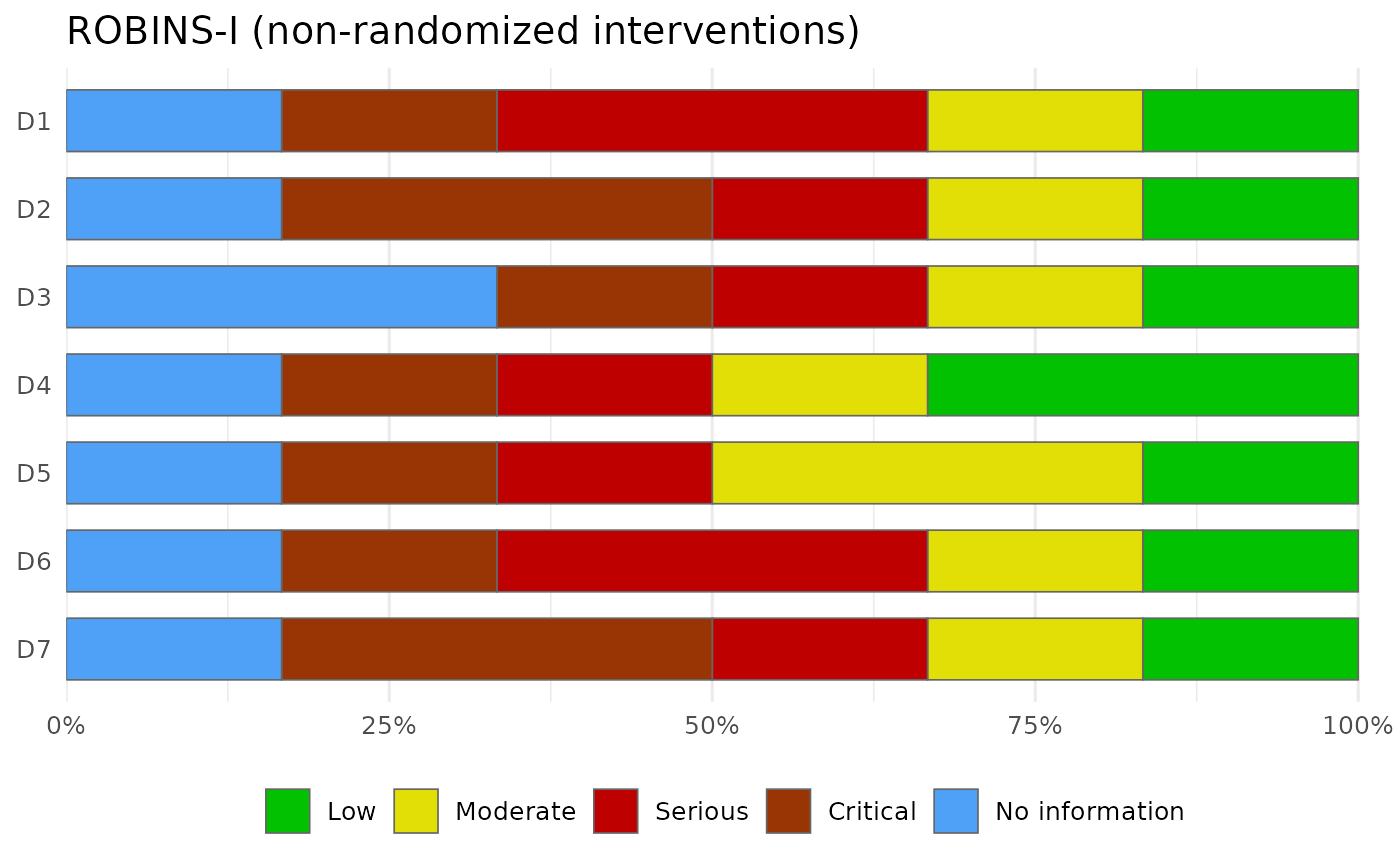
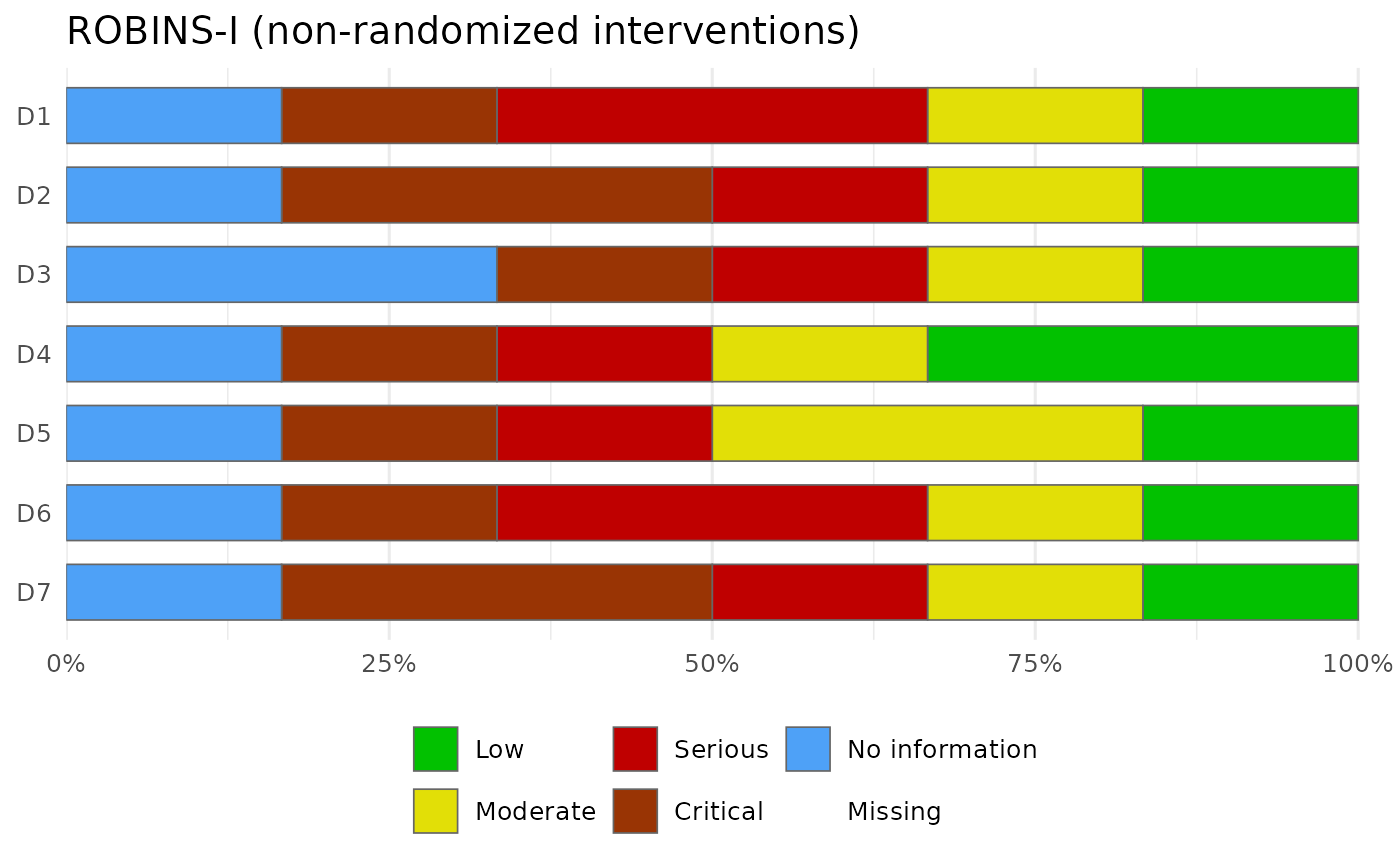
Deploy pkgdown site [skip ci]

diff --git a/reference/flowchart_consistency.html b/reference/flowchart_consistency.html
@@ -1,0 +1,99 @@
+<!DOCTYPE html>
+<!-- Generated by pkgdown: do not edit by hand --><html lang="en"><head><meta http-equiv="Content-Type" content="text/html; charset=UTF-8"><meta charset="utf-8"><meta http-equiv="X-UA-Compatible" content="IE=edge"><meta name="viewport" content="width=device-width, initial-scale=1, shrink-to-fit=no"><title>Check a flow diagram for count inconsistencies — flowchart_consistency • reportilo</title><!-- favicons --><link rel="icon" type="image/png" sizes="96x96" href="../favicon-96x96.png"><link rel="icon" type="”image/svg+xml”" href="../favicon.svg"><link rel="apple-touch-icon" sizes="180x180" href="../apple-touch-icon.png"><link rel="icon" sizes="any" href="../favicon.ico"><link rel="manifest" href="../site.webmanifest"><script src="../deps/jquery-3.6.0/jquery-3.6.0.min.js"></script><meta name="viewport" content="width=device-width, initial-scale=1, shrink-to-fit=no"><link href="../deps/bootstrap-5.3.8/bootstrap.min.css" rel="stylesheet"><script src="../deps/bootstrap-5.3.8/bootstrap.bundle.min.js"></script><link href="../deps/font-awesome-6.5.2/css/all.min.css" rel="stylesheet"><link href="../deps/font-awesome-6.5.2/css/v4-shims.min.css" rel="stylesheet"><script src="../deps/headroom-0.11.0/headroom.min.js"></script><script src="../deps/headroom-0.11.0/jQuery.headroom.min.js"></script><script src="../deps/bootstrap-toc-1.0.1/bootstrap-toc.min.js"></script><script src="../deps/clipboard.js-2.0.11/clipboard.min.js"></script><script src="../deps/search-1.0.0/autocomplete.jquery.min.js"></script><script src="../deps/search-1.0.0/fuse.min.js"></script><script src="../deps/search-1.0.0/mark.min.js"></script><!-- pkgdown --><script src="../pkgdown.js"></script><meta property="og:title" content="Check a flow diagram for count inconsistencies — flowchart_consistency"><meta name="description" content="Apply template-specific sanity rules (for example, screened cannot exceed
+identified, randomized cannot exceed assessed for eligibility). Reason
+fields are ignored."><meta property="og:description" content="Apply template-specific sanity rules (for example, screened cannot exceed
+identified, randomized cannot exceed assessed for eligibility). Reason
+fields are ignored."><meta property="og:image" content="https://choxos.github.io/reportilo/logo.png"></head><body>
+    <a href="#main" class="visually-hidden-focusable">Skip to contents</a>
+
+
+    <nav class="navbar navbar-expand-lg fixed-top bg-light" data-bs-theme="light" aria-label="Site navigation"><div class="container">
+
+    <a class="navbar-brand me-2" href="../index.html">reportilo</a>
+
+    <small class="nav-text text-muted me-auto" data-bs-toggle="tooltip" data-bs-placement="bottom" title="">0.1.0</small>
+
+
+    <button class="navbar-toggler" type="button" data-bs-toggle="collapse" data-bs-target="#navbar" aria-controls="navbar" aria-expanded="false" aria-label="Toggle navigation">
+      <span class="navbar-toggler-icon"></span>
+    </button>
+
+    <div id="navbar" class="collapse navbar-collapse ms-3">
+      <ul class="navbar-nav me-auto"><li class="nav-item"><a class="nav-link" href="../articles/reportilo.html">Get started</a></li>
+<li class="active nav-item"><a class="nav-link" href="../reference/index.html">Reference</a></li>
+<li class="nav-item dropdown">
+  <button class="nav-link dropdown-toggle" type="button" id="dropdown-articles" data-bs-toggle="dropdown" aria-expanded="false" aria-haspopup="true">Articles</button>
+  <ul class="dropdown-menu" aria-labelledby="dropdown-articles"><li><a class="dropdown-item" href="../articles/reportilo.html">Getting started</a></li>
+    <li><a class="dropdown-item" href="../articles/checklists.html">Filling in checklists</a></li>
+    <li><a class="dropdown-item" href="../articles/flowcharts.html">Building flow diagrams</a></li>
+    <li><a class="dropdown-item" href="../articles/export.html">Exporting to Word, Excel and images</a></li>
+  </ul></li>
+<li class="nav-item"><a class="nav-link" href="../news/index.html">Changelog</a></li>
+      </ul><ul class="navbar-nav"><li class="nav-item"><form class="form-inline" role="search">
+ <input class="form-control" type="search" name="search-input" id="search-input" autocomplete="off" aria-label="Search site" placeholder="Search for" data-search-index="../search.json"></form></li>
+<li class="nav-item"><a class="nav-link" href="https://choxos.github.io/reportilo/app/">Web app</a></li>
+<li class="nav-item"><a class="external-link nav-link" href="https://github.com/choxos/reportilo/" aria-label="GitHub"><span class="fa fab fa-github fa-lg"></span></a></li>
+      </ul></div>
+
+
+  </div>
+</nav><div class="container template-reference-topic">
+<div class="row">
+  <main id="main" class="col-md-9"><div class="page-header">
+      <img src="../logo.png" class="logo" alt=""><h1>Check a flow diagram for count inconsistencies</h1>
+      <small class="dont-index">Source: <a href="https://github.com/choxos/reportilo/blob/main/R/flowchart.R" class="external-link"><code>R/flowchart.R</code></a></small>
+      <div class="d-none name"><code>flowchart_consistency.Rd</code></div>
+    </div>
+
+    <div class="ref-description section level2">
+    <p>Apply template-specific sanity rules (for example, <em>screened</em> cannot exceed
+<em>identified</em>, <em>randomized</em> cannot exceed <em>assessed for eligibility</em>). Reason
+fields are ignored.</p>
+    </div>
+
+    <div class="section level2">
+    <h2 id="ref-usage">Usage<a class="anchor" aria-label="anchor" href="#ref-usage"></a></h2>
+    <div class="sourceCode"><pre class="sourceCode r"><code><span><span class="fu">flowchart_consistency</span><span class="op">(</span><span class="va">x</span><span class="op">)</span></span></code></pre></div>
+    </div>
+
+    <div class="section level2">
+    <h2 id="arguments">Arguments<a class="anchor" aria-label="anchor" href="#arguments"></a></h2>
+
+
+<dl><dt id="arg-x">x<a class="anchor" aria-label="anchor" href="#arg-x"></a></dt>
+<dd><p>A <code>reportilo_flowchart</code>.</p></dd>
+
+</dl></div>
+    <div class="section level2">
+    <h2 id="value">Value<a class="anchor" aria-label="anchor" href="#value"></a></h2>
+    <p>A character vector of issue messages (empty if the counts are
+consistent).</p>
+    </div>
+
+    <div class="section level2">
+    <h2 id="ref-examples">Examples<a class="anchor" aria-label="anchor" href="#ref-examples"></a></h2>
+    <div class="sourceCode"><pre class="sourceCode r"><code><span class="r-in"><span><span class="va">fc</span> <span class="op">&lt;-</span> <span class="fu"><a href="set_counts.html">set_counts</a></span><span class="op">(</span><span class="fu"><a href="new_flowchart.html">new_flowchart</a></span><span class="op">(</span><span class="st">"prisma_2020"</span><span class="op">)</span>, identified_db <span class="op">=</span> <span class="fl">100</span>, screened <span class="op">=</span> <span class="fl">200</span><span class="op">)</span></span></span>
+<span class="r-in"><span><span class="fu">flowchart_consistency</span><span class="op">(</span><span class="va">fc</span><span class="op">)</span></span></span>
+<span class="r-out co"><span class="r-pr">#&gt;</span> [1] "Records identified from databases and registers (100) is less than Records screened (200)."</span>
+</code></pre></div>
+    </div>
+  </main><aside class="col-md-3"><nav id="toc" aria-label="Table of contents"><h2>On this page</h2>
+    </nav></aside></div>
+
+
+    <footer><div class="pkgdown-footer-left">
+  <p>Developed by Ahmad Sofi-Mahmudi.</p>
+</div>
+
+<div class="pkgdown-footer-right">
+  <p>Site built with <a href="https://pkgdown.r-lib.org/" class="external-link">pkgdown</a> 2.2.0.</p>
+</div>
+
+    </footer></div>
+
+
+
+
+
+  </body></html>
+

diff --git a/reference/reportilo_export.html b/reference/reportilo_export.html
@@ -75,8 +75,9 @@ extension.</p></dd>
 
 
 <dt id="arg--">...<a class="anchor" aria-label="anchor" href="#arg--"></a></dt>
-<dd><p>Passed to the underlying writer. For flow diagrams: <code>width</code> (image
-pixel width) and <code>background</code> (<code>"white"</code> or <code>"transparent"</code>).</p></dd>
+<dd><p>Passed to the underlying writer. Flow diagrams and risk-of-bias
+plots accept <code>background</code> (<code>"white"</code> or <code>"transparent"</code>); flow diagrams also
+accept <code>width</code>, and risk-of-bias accepts <code>type</code>.</p></dd>
 
 </dl></div>
     <div class="section level2">
@@ -94,7 +95,8 @@ pixel width) and <code>background</code> (<code>"white"</code> or <code>"transpa
 
 <dt>Risk of bias</dt>
 <dd><p><code>png</code>, <code>svg</code>, <code>pdf</code>, <code>docx</code>, <code>xlsx</code> (the table), <code>csv</code>
-(the table). Pass <code>type = "traffic_light"</code> (default) or <code>type = "summary"</code>.</p></dd>
+(the table). Pass <code>type = "traffic_light"</code> (default) or <code>type = "summary"</code>,
+and <code>background = "transparent"</code> for no background.</p></dd>
 
 
 </dl><p>Word and Excel export need the suggested packages <code>officer</code> + <code>flextable</code> and

diff --git a/reference/index.html b/reference/index.html
@@ -132,6 +132,13 @@
 
         <dt>
 
+          <code><a href="flowchart_consistency.html">flowchart_consistency()</a></code>
+
+        </dt>
+        <dd>Check a flow diagram for count inconsistencies</dd>
+
+        <dt>
+
           <code><a href="render_flowchart.html">render_flowchart()</a></code>
 
         </dt>

diff --git a/index.html b/index.html
@@ -5,7 +5,7 @@
 <meta charset="utf-8">
 <meta http-equiv="X-UA-Compatible" content="IE=edge">
 <meta name="viewport" content="width=device-width, initial-scale=1, shrink-to-fit=no">
-<title>Fill In and Export EQUATOR Reporting Guidelines and Flow Diagrams • reportilo</title>
+<title>Fill in and Export EQUATOR Reporting Guidelines and Flow Diagrams • reportilo</title>
 <!-- favicons --><link rel="icon" type="image/png" sizes="96x96" href="favicon-96x96.png">
 <link rel="icon" type="”image/svg+xml”" href="favicon.svg">
 <link rel="apple-touch-icon" sizes="180x180" href="apple-touch-icon.png">
@@ -15,7 +15,7 @@
 <link href="deps/bootstrap-5.3.8/bootstrap.min.css" rel="stylesheet">
 <script src="deps/bootstrap-5.3.8/bootstrap.bundle.min.js"></script><link href="deps/font-awesome-6.5.2/css/all.min.css" rel="stylesheet">
 <link href="deps/font-awesome-6.5.2/css/v4-shims.min.css" rel="stylesheet">
-<script src="deps/headroom-0.11.0/headroom.min.js"></script><script src="deps/headroom-0.11.0/jQuery.headroom.min.js"></script><script src="deps/bootstrap-toc-1.0.1/bootstrap-toc.min.js"></script><script src="deps/clipboard.js-2.0.11/clipboard.min.js"></script><script src="deps/search-1.0.0/autocomplete.jquery.min.js"></script><script src="deps/search-1.0.0/fuse.min.js"></script><script src="deps/search-1.0.0/mark.min.js"></script><!-- pkgdown --><script src="pkgdown.js"></script><meta property="og:title" content="Fill In and Export EQUATOR Reporting Guidelines and Flow Diagrams">
+<script src="deps/headroom-0.11.0/headroom.min.js"></script><script src="deps/headroom-0.11.0/jQuery.headroom.min.js"></script><script src="deps/bootstrap-toc-1.0.1/bootstrap-toc.min.js"></script><script src="deps/clipboard.js-2.0.11/clipboard.min.js"></script><script src="deps/search-1.0.0/autocomplete.jquery.min.js"></script><script src="deps/search-1.0.0/fuse.min.js"></script><script src="deps/search-1.0.0/mark.min.js"></script><!-- pkgdown --><script src="pkgdown.js"></script><meta property="og:title" content="Fill in and Export EQUATOR Reporting Guidelines and Flow Diagrams">
 <meta name="description" content="A toolkit for the health research reporting guidelines curated by the EQUATOR Network. reportilo bundles a searchable catalog of reporting guidelines, machine-readable checklists for the major families (such as CONSORT, STROBE, PRISMA, SPIRIT and STARD), and data-driven flow diagram templates (PRISMA 2020, CONSORT and STARD). Users fill in checklist responses and flow diagram counts and export the result to Word, Excel or image files. A bundled shiny application provides a point-and-click front end, and the same data powers a companion browser application.">
 <meta property="og:description" content="A toolkit for the health research reporting guidelines curated by the EQUATOR Network. reportilo bundles a searchable catalog of reporting guidelines, machine-readable checklists for the major families (such as CONSORT, STROBE, PRISMA, SPIRIT and STARD), and data-driven flow diagram templates (PRISMA 2020, CONSORT and STARD). Users fill in checklist responses and flow diagram counts and export the result to Word, Excel or image files. A bundled shiny application provides a point-and-click front end, and the same data powers a companion browser application.">
 <meta property="og:image" content="https://choxos.github.io/reportilo/logo.png">

diff --git a/reference/reportilo-package.html b/reference/reportilo-package.html
@@ -1,5 +1,5 @@
 <!DOCTYPE html>
-<!-- Generated by pkgdown: do not edit by hand --><html lang="en"><head><meta http-equiv="Content-Type" content="text/html; charset=UTF-8"><meta charset="utf-8"><meta http-equiv="X-UA-Compatible" content="IE=edge"><meta name="viewport" content="width=device-width, initial-scale=1, shrink-to-fit=no"><title>reportilo: Fill In and Export EQUATOR Reporting Guidelines and Flow Diagrams — reportilo-package • reportilo</title><!-- favicons --><link rel="icon" type="image/png" sizes="96x96" href="../favicon-96x96.png"><link rel="icon" type="”image/svg+xml”" href="../favicon.svg"><link rel="apple-touch-icon" sizes="180x180" href="../apple-touch-icon.png"><link rel="icon" sizes="any" href="../favicon.ico"><link rel="manifest" href="../site.webmanifest"><script src="../deps/jquery-3.6.0/jquery-3.6.0.min.js"></script><meta name="viewport" content="width=device-width, initial-scale=1, shrink-to-fit=no"><link href="../deps/bootstrap-5.3.8/bootstrap.min.css" rel="stylesheet"><script src="../deps/bootstrap-5.3.8/bootstrap.bundle.min.js"></script><link href="../deps/font-awesome-6.5.2/css/all.min.css" rel="stylesheet"><link href="../deps/font-awesome-6.5.2/css/v4-shims.min.css" rel="stylesheet"><script src="../deps/headroom-0.11.0/headroom.min.js"></script><script src="../deps/headroom-0.11.0/jQuery.headroom.min.js"></script><script src="../deps/bootstrap-toc-1.0.1/bootstrap-toc.min.js"></script><script src="../deps/clipboard.js-2.0.11/clipboard.min.js"></script><script src="../deps/search-1.0.0/autocomplete.jquery.min.js"></script><script src="../deps/search-1.0.0/fuse.min.js"></script><script src="../deps/search-1.0.0/mark.min.js"></script><!-- pkgdown --><script src="../pkgdown.js"></script><meta property="og:title" content="reportilo: Fill In and Export EQUATOR Reporting Guidelines and Flow Diagrams — reportilo-package"><meta name="description" content="
+<!-- Generated by pkgdown: do not edit by hand --><html lang="en"><head><meta http-equiv="Content-Type" content="text/html; charset=UTF-8"><meta charset="utf-8"><meta http-equiv="X-UA-Compatible" content="IE=edge"><meta name="viewport" content="width=device-width, initial-scale=1, shrink-to-fit=no"><title>reportilo: Fill in and Export EQUATOR Reporting Guidelines and Flow Diagrams — reportilo-package • reportilo</title><!-- favicons --><link rel="icon" type="image/png" sizes="96x96" href="../favicon-96x96.png"><link rel="icon" type="”image/svg+xml”" href="../favicon.svg"><link rel="apple-touch-icon" sizes="180x180" href="../apple-touch-icon.png"><link rel="icon" sizes="any" href="../favicon.ico"><link rel="manifest" href="../site.webmanifest"><script src="../deps/jquery-3.6.0/jquery-3.6.0.min.js"></script><meta name="viewport" content="width=device-width, initial-scale=1, shrink-to-fit=no"><link href="../deps/bootstrap-5.3.8/bootstrap.min.css" rel="stylesheet"><script src="../deps/bootstrap-5.3.8/bootstrap.bundle.min.js"></script><link href="../deps/font-awesome-6.5.2/css/all.min.css" rel="stylesheet"><link href="../deps/font-awesome-6.5.2/css/v4-shims.min.css" rel="stylesheet"><script src="../deps/headroom-0.11.0/headroom.min.js"></script><script src="../deps/headroom-0.11.0/jQuery.headroom.min.js"></script><script src="../deps/bootstrap-toc-1.0.1/bootstrap-toc.min.js"></script><script src="../deps/clipboard.js-2.0.11/clipboard.min.js"></script><script src="../deps/search-1.0.0/autocomplete.jquery.min.js"></script><script src="../deps/search-1.0.0/fuse.min.js"></script><script src="../deps/search-1.0.0/mark.min.js"></script><!-- pkgdown --><script src="../pkgdown.js"></script><meta property="og:title" content="reportilo: Fill in and Export EQUATOR Reporting Guidelines and Flow Diagrams — reportilo-package"><meta name="description" content="
 A toolkit for the health research reporting guidelines curated by the EQUATOR Network. 'reportilo' bundles a searchable catalog of reporting guidelines, machine-readable checklists for the major families (such as CONSORT, STROBE, PRISMA, SPIRIT and STARD), and data-driven flow diagram templates (PRISMA 2020, CONSORT and STARD). Users fill in checklist responses and flow diagram counts and export the result to Word, Excel or image files. A bundled 'shiny' application provides a point-and-click front end, and the same data powers a companion browser application."><meta property="og:description" content="
 A toolkit for the health research reporting guidelines curated by the EQUATOR Network. 'reportilo' bundles a searchable catalog of reporting guidelines, machine-readable checklists for the major families (such as CONSORT, STROBE, PRISMA, SPIRIT and STARD), and data-driven flow diagram templates (PRISMA 2020, CONSORT and STARD). Users fill in checklist responses and flow diagram counts and export the result to Word, Excel or image files. A bundled 'shiny' application provides a point-and-click front end, and the same data powers a companion browser application."><meta property="og:image" content="https://choxos.github.io/reportilo/logo.png"></head><body>
     <a href="#main" class="visually-hidden-focusable">Skip to contents</a>
@@ -38,7 +38,7 @@ A toolkit for the health research reporting guidelines curated by the EQUATOR Ne
 </nav><div class="container template-reference-topic">
 <div class="row">
   <main id="main" class="col-md-9"><div class="page-header">
-      <img src="../logo.png" class="logo" alt=""><h1>reportilo: Fill In and Export EQUATOR Reporting Guidelines and Flow Diagrams</h1>
+      <img src="../logo.png" class="logo" alt=""><h1>reportilo: Fill in and Export EQUATOR Reporting Guidelines and Flow Diagrams</h1>
       <small class="dont-index">Source: <a href="https://github.com/choxos/reportilo/blob/main/R/reportilo-package.R" class="external-link"><code>R/reportilo-package.R</code></a></small>
       <div class="d-none name"><code>reportilo-package.Rd</code></div>
     </div>

diff --git a/reference/flowchart_consistency.md b/reference/flowchart_consistency.md
@@ -1,0 +1,30 @@
+# Check a flow diagram for count inconsistencies
+
+Apply template-specific sanity rules (for example, *screened* cannot
+exceed *identified*, *randomized* cannot exceed *assessed for
+eligibility*). Reason fields are ignored.
+
+## Usage
+
+``` r
+flowchart_consistency(x)
+```
+
+## Arguments
+
+- x:
+
+  A `reportilo_flowchart`.
+
+## Value
+
+A character vector of issue messages (empty if the counts are
+consistent).
+
+## Examples
+
+``` r
+fc <- set_counts(new_flowchart("prisma_2020"), identified_db = 100, screened = 200)
+flowchart_consistency(fc)
+#> [1] "Records identified from databases and registers (100) is less than Records screened (200)."
+```

diff --git a/reference/reportilo_export.md b/reference/reportilo_export.md
@@ -31,8 +31,9 @@ reportilo_export(x, file, format = NULL, ...)
 
 - ...:
 
-  Passed to the underlying writer. For flow diagrams: `width` (image
-  pixel width) and `background` (`"white"` or `"transparent"`).
+  Passed to the underlying writer. Flow diagrams and risk-of-bias plots
+  accept `background` (`"white"` or `"transparent"`); flow diagrams also
+  accept `width`, and risk-of-bias accepts `type`.
 
 ## Value
 
@@ -53,7 +54,8 @@ Supported formats:
 - Risk of bias:
 
   `png`, `svg`, `pdf`, `docx`, `xlsx` (the table), `csv` (the table).
-  Pass `type = "traffic_light"` (default) or `type = "summary"`.
+  Pass `type = "traffic_light"` (default) or `type = "summary"`, and
+  `background = "transparent"` for no background.
 
 Word and Excel export need the suggested packages `officer` +
 `flextable` and `openxlsx` respectively; image export needs

diff --git a/reference/index.md b/reference/index.md
@@ -33,6 +33,8 @@ Create and fill PRISMA, CONSORT and STARD flow diagrams.
   : List the fillable fields of a flow diagram template
 - [`set_counts()`](https://choxos.github.io/reportilo/reference/set_counts.md)
   : Set counts on a flow diagram
+- [`flowchart_consistency()`](https://choxos.github.io/reportilo/reference/flowchart_consistency.md)
+  : Check a flow diagram for count inconsistencies
 - [`render_flowchart()`](https://choxos.github.io/reportilo/reference/render_flowchart.md)
   : Render a flow diagram for viewing
 - [`flowchart_dot()`](https://choxos.github.io/reportilo/reference/flowchart_dot.md)

diff --git a/reference/reportilo-package.md b/reference/reportilo-package.md
@@ -1,4 +1,4 @@
-# reportilo: Fill In and Export EQUATOR Reporting Guidelines and Flow Diagrams
+# reportilo: Fill in and Export EQUATOR Reporting Guidelines and Flow Diagrams
 
 A toolkit for the health research reporting guidelines curated by the
 EQUATOR Network. 'reportilo' bundles a searchable catalog of reporting